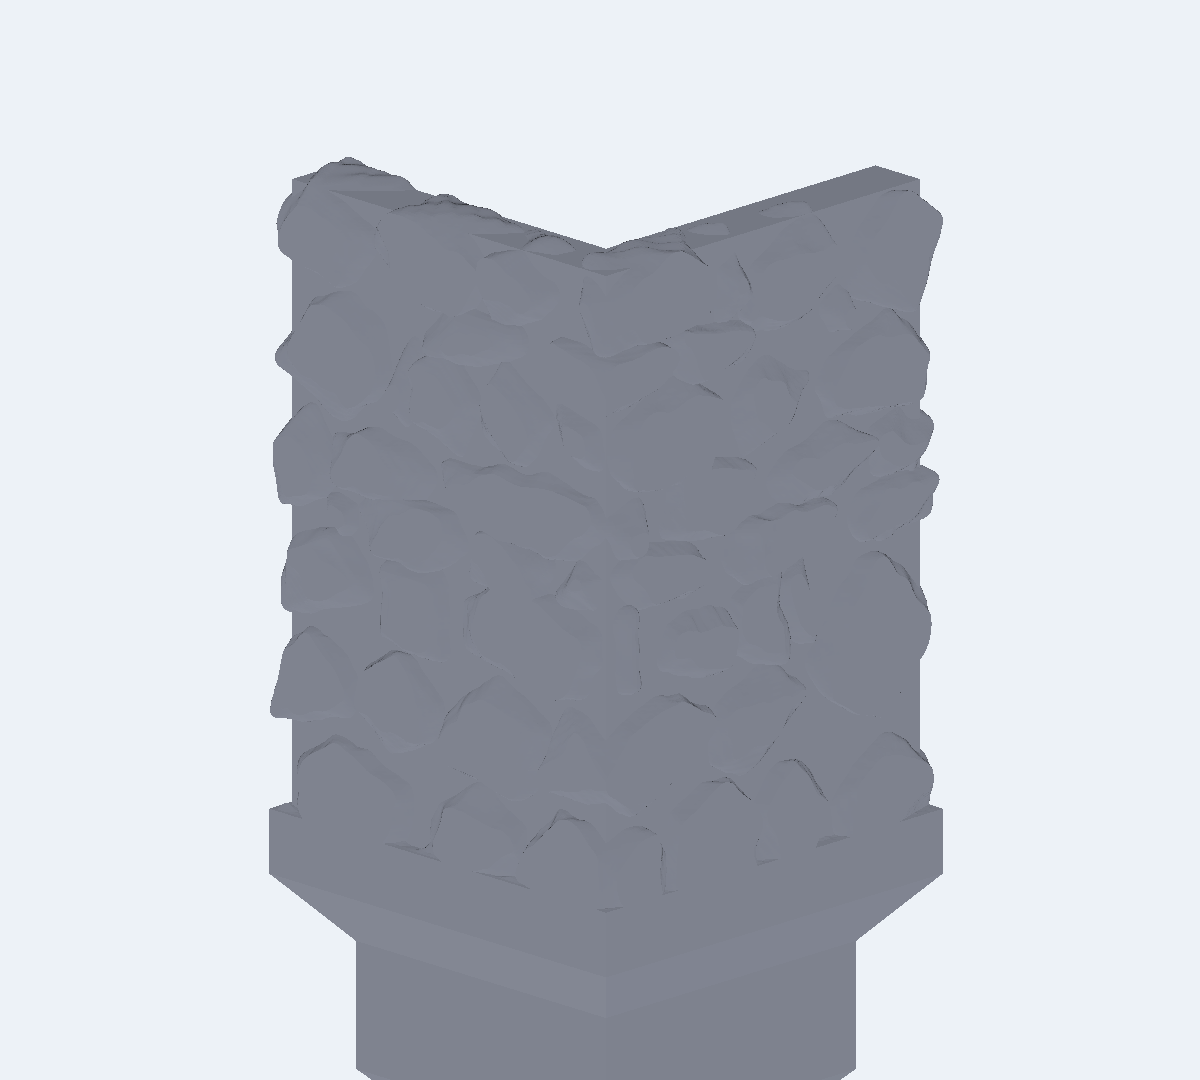
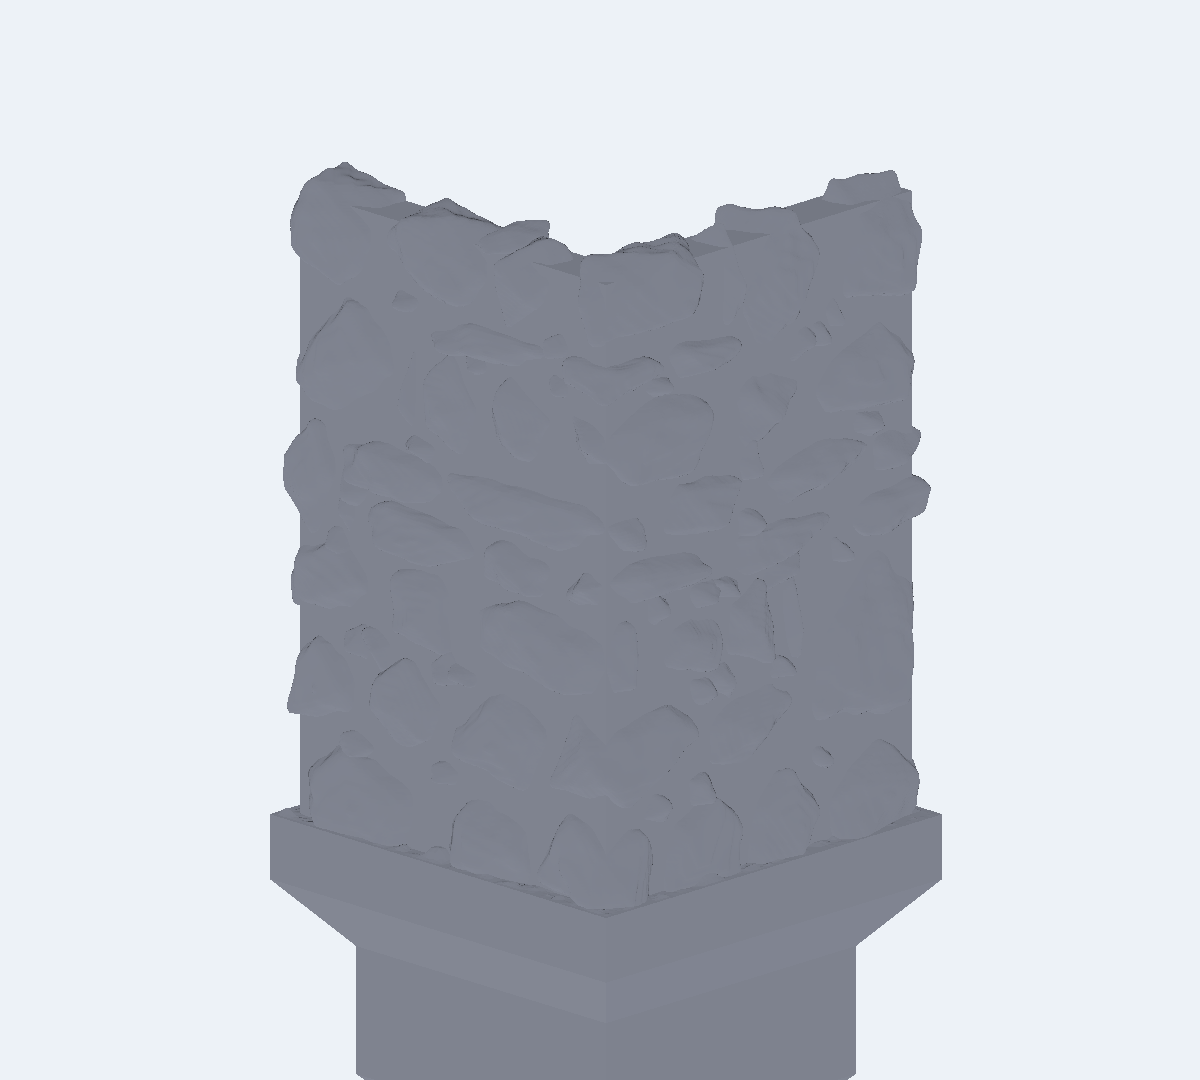
Walls: fieldstone E8 — exact-fit stones, pinning stones, hidden mortar
Round-4 fixes (Shawn: flat-faced rocks outside / fill every space /
full rock faces on top+sides / mortar mostly invisible):

- Exact-fit rescale replaces shave compensation: build each stone
  oversize so rounding keeps curvature, then rescale to the target box.
  Bellies are tangent to the face planes by construction — the flat
  outside faces were the tile-boundary clip planing off overshooting
  bulges (guessing the roundover+blur shave is unstable both ways:
  undershoot = flat slab read, overshoot = planed rocks)
- Pinning stones: small stones wedged at joint x course-line crossings
  (_PIN_PROB 0.55) fill the star-shaped voids that four rounded
  shoulders open; flush cap-joint pins fill the coping dips
- reveal 1.2 -> 1.6: with tangent packing the core (mortar) shows only
  deep in the crevices

Verified: 3 watertight components, no slivers, cap plane exact at
seat+49.7.

Claude-Session: https://claude.ai/code/session_01N52X1qVoRMnzi1jxnvUHEL

diff --git a/src/dharmatiles/walls/fieldstone.py b/src/dharmatiles/walls/fieldstone.py
@@ -56,6 +56,13 @@ _PACK_COMP_MM     = 2.1           # oversize before rounding; roundover +
 _BULGE_MM         = 0.35          # residual vertical swell into joints
 _THROUGH_FRAC     = 0.20          # fraction of eligible cells merged with
                                   # the cell above into a throughstone
+_PIN_PROB         = 0.55          # chance of a pinning stone at each
+                                  # joint/course-line crossing — the star-
+                                  # shaped voids four rounded shoulders
+                                  # open up ("every space filled with a
+                                  # rock", round-4)
+_PIN_W            = (2.2, 4.4)    # pinning stone width
+_PIN_H            = (2.0, 3.6)    # pinning stone height
 _REMESH_SIGMA     = 0.9           # aged read (stones convention)
 
 
@@ -119,7 +126,7 @@ class FieldstoneWall(CutStoneWall):
                  course_mm: tuple[float, float] = (3.2, 8.8),
                  bay_mm:    tuple[float, float] = (4.5, 16.0),
                  joint_mm:  float = 0.4,
-                 reveal_mm: float = 1.2,
+                 reveal_mm: float = 1.6,
                  roundover_mm: float | None = 0.45,
                  relief_mm:    float | None = 0.12,
                  relief_wl:    tuple[float, float] | None = (2.0, 7.0),
@@ -181,7 +188,56 @@ class FieldstoneWall(CutStoneWall):
                 break
         out = [c for c in cells if c.key not in drop]
         out.extend(merged)
+        out.extend(self._pin_cells(out, segs, H, rng))
         return out
+
+    def _pin_cells(self, cells: list[_Cell], segs: list[_Seg], H: float,
+                   rng: np.random.Generator) -> list[_Cell]:
+        """Small pinning stones wedged where a vertical joint crosses a
+        course line — filling the voids that rounded shoulders open."""
+        throughs = [c for c in cells if len(c.key) == 4]
+        pins: list[_Cell] = []
+        n = 0
+        for c in cells:
+            if len(c.key) == 4 or c.end0 != 'joint':
+                continue
+            segL = segs[c.seg].L
+            for z_line in (c.z0, c.z1):
+                if not 1.0 < z_line < H - 1.0:
+                    # Cap joints get their own flush pins below.
+                    continue
+                if rng.random() > _PIN_PROB:
+                    continue
+                if any(t.seg == c.seg and t.z0 < z_line < t.z1
+                       and t.t0 - 1.0 < c.t0 < t.t1 + 1.0
+                       for t in throughs):
+                    continue
+                w = rng.uniform(*_PIN_W)
+                h = rng.uniform(*_PIN_H)
+                t0 = np.clip(c.t0 - w / 2.0, 0.5, segL - 0.5 - w)
+                pins.append(_Cell(
+                    seg=c.seg, t0=float(t0), t1=float(t0 + w),
+                    end0='joint', end1='joint',
+                    z0=float(z_line - h / 2.0), z1=float(z_line + h / 2.0),
+                    is_top=False, is_bottom=False,
+                    key=(-1, c.seg, n, 'pin'),
+                ))
+                n += 1
+            # Cap-joint pins: a small stone flush with the cap plane
+            # filling the dip between two coping stones.
+            if c.is_top and rng.random() < _PIN_PROB:
+                w = rng.uniform(*_PIN_W)
+                h = rng.uniform(*_PIN_H)
+                t0 = np.clip(c.t0 - w / 2.0, 0.5, segL - 0.5 - w)
+                pins.append(_Cell(
+                    seg=c.seg, t0=float(t0), t1=float(t0 + w),
+                    end0='joint', end1='joint',
+                    z0=float(H - h), z1=float(H),
+                    is_top=True, is_bottom=False,
+                    key=(-1, c.seg, n, 'pin'),
+                ))
+                n += 1
+        return pins
 
     # ── the unit ─────────────────────────────────────────────────────────────
     def _unit_mesh(self, lx: float, ly: float, lz: float, chamfer: float,
@@ -197,20 +253,23 @@ class FieldstoneWall(CutStoneWall):
 
         up = 0.0 if cell.is_top else rng.uniform(0.0, _BULGE_MM)
         dn = 0.0 if cell.is_bottom else rng.uniform(0.0, _BULGE_MM)
-        # Compensate the rounding shave in ALL THREE axes.  y (thickness)
-        # matters most: without it every stone loses ~0.7 mm per face to
-        # roundover+blur and sits nearly flush with the core — the whole
-        # wall reads as a flat slab with faint lumps (round-4 find; the
-        # standalone strip test looked right because there was no core
-        # to compare against).
-        cx = _PACK_COMP_MM
-        cy = _PACK_COMP_MM
-        cz_up = 0.0 if cell.is_top else _PACK_COMP_MM / 2.0
-        cz_dn = _PACK_COMP_MM / 2.0
-        body = _fieldstone_mesh(lx + cx, ly + cy,
-                                lz + up + dn + cz_up + cz_dn,
+        # Build OVERSIZE so rounding keeps real curvature, then EXACT-FIT
+        # rescale to the target box.  This replaces shave compensation
+        # (round-4 fix): guessing the roundover+blur shave either leaves
+        # stones flush with the core (flat-slab read) or overshoots and
+        # bulges them past the outer face plane, where the tile-boundary
+        # clip PLANES them into flat-faced rocks (Shawn's outside find).
+        # Exact fit makes every belly tangent to its face plane — round
+        # faces by construction, nothing for the clip to shave.
+        c = _PACK_COMP_MM
+        body = _fieldstone_mesh(lx + c, ly + c, lz + up + dn + c,
                                 blockiness, cell.is_top or cell.is_quoin,
                                 self.roundover_mm, self.relief_mm,
                                 self.relief_wl, rng)
-        body.apply_translation([-cx / 2.0, -cy / 2.0, -(dn + cz_dn)])
+        b0, b1 = body.bounds
+        target0 = np.array([0.0, 0.0, -dn])
+        target1 = np.array([lx, ly, lz + up])
+        body.apply_translation(-b0)
+        body.apply_scale((target1 - target0) / (b1 - b0))
+        body.apply_translation(target0)
         return body

diff --git a/docs/design/walls-coursed-masonry.md b/docs/design/walls-coursed-masonry.md
@@ -178,7 +178,8 @@ unioned surface — the DB set-13 signature).
 | — | **Shawn round-2 verdict**: "incredible… beautiful" + five fixes | (2) ends textured, not flush-cut; (3) grass must not run up the wall face; (4) thinner mortar, bricks nearly touching; (5) raised shapes mid-face/top = hull plateau from full-extent face-centre points; (6) explore texture options |
 | E5 | Ends always 'face' (flush machinery deleted); joint 0.45; face centres pulled in ~0.5×chip (plateau gone by construction); grass `_CLIFF_CLAMP_MM` in thatch.py (support taller than 4 mm above substrate is cliff-class — drape/lift see at most the clamp); texture presets `chipped/worn/hewn/dressed` + walls-e5-textures comparison scene | Shawn: "this looks great" |
 | E6 | **FieldstoneWall** (family 3, `walls/fieldstone.py`): same chassis, unit = hull of Fibonacci points on an ellipsoid↔box blend (`blockiness`), lumpiness, vertical bulge into deep joints, flat coping cap, squared quoins. Three sub-iterations: (a) inscribed ellipsoids read "pebbles stuck on a slab" → blockiness up, joints tighter; (b) roundover+blur shave ~1.5 mm and reopen the joints → `_PACK_COMP_MM` oversizes each stone before rounding; (c) rounded BUTTING stones curve away from the corner arris leaving V-notches → both cells at a corner are quoin-class (squared, chipped-preset params) | **Shawn: "terrible"** — flatter stones; stones (not bricks) in the corner; nearly touching; more irregular sizes |
-| E7 | Fieldstone rework per round-3: (a) slab squash of support directions (`_FLATTEN`) — stones are flat-laid slabs; (b) corner quoins are the same fieldstone unit at high blockiness, `_block_mesh` bricks removed from this wall; (c) size irregularity from the GRID (wider course/bay ranges + `_cells` post-pass merging ~1/5 of cells into double-height throughstones), never from under-filling — an under-filled cell exposes flat core = "pebbles glued on a slab" (re-found); (d) packing: `_PACK_COMP_MM` 2.1 applied in ALL THREE axes — y (thickness) compensation was missing, so roundover+blur left every stone nearly flush with the core and the wall read as a flat slab with faint lumps (the standalone strip test missed it: no core to compare against); joint 0.4 | pending Shawn |
+| E7 | Fieldstone rework per round-3: (a) slab squash of support directions (`_FLATTEN`) — stones are flat-laid slabs; (b) corner quoins are the same fieldstone unit at high blockiness, `_block_mesh` bricks removed from this wall; (c) size irregularity from the GRID (wider course/bay ranges + `_cells` post-pass merging ~1/5 of cells into double-height throughstones), never from under-filling — an under-filled cell exposes flat core = "pebbles glued on a slab" (re-found); (d) packing: `_PACK_COMP_MM` 2.1 applied in ALL THREE axes — y (thickness) compensation was missing, so roundover+blur left every stone nearly flush with the core and the wall read as a flat slab with faint lumps (the standalone strip test missed it: no core to compare against); joint 0.4 | **Shawn**: outside has flat-faced rocks; fill every space (more small rocks); full rock faces on top/sides; mortar mostly invisible |
+| E8 | (a) **Exact-fit rescale replaces shave compensation**: build oversize (rounding keeps curvature), then rescale each stone to its target box — bellies tangent to face planes by construction; the flat outside faces were the tile-boundary clip planing off stones whose compensated bulge overshot the outer plane (guessing the shave is unstable in both directions); (b) **pinning stones**: small stones at joint × course-line crossings (`_PIN_PROB` 0.55) fill the star voids four rounded shoulders open, plus flush cap-joint pins; (c) reveal 1.6 — with tangent packing the core shows only deep in crevices | pending Shawn |
 
 Implementation notes: blocks finish through `_blur_remesh` (σ 0.7) —
 `subdivide_to_size` leaves T-junctions that break the manifold union.
